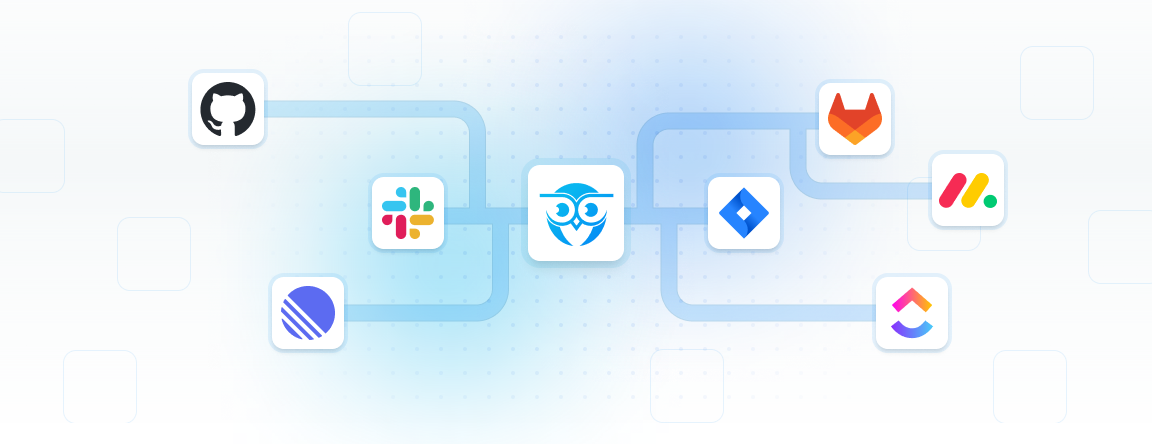
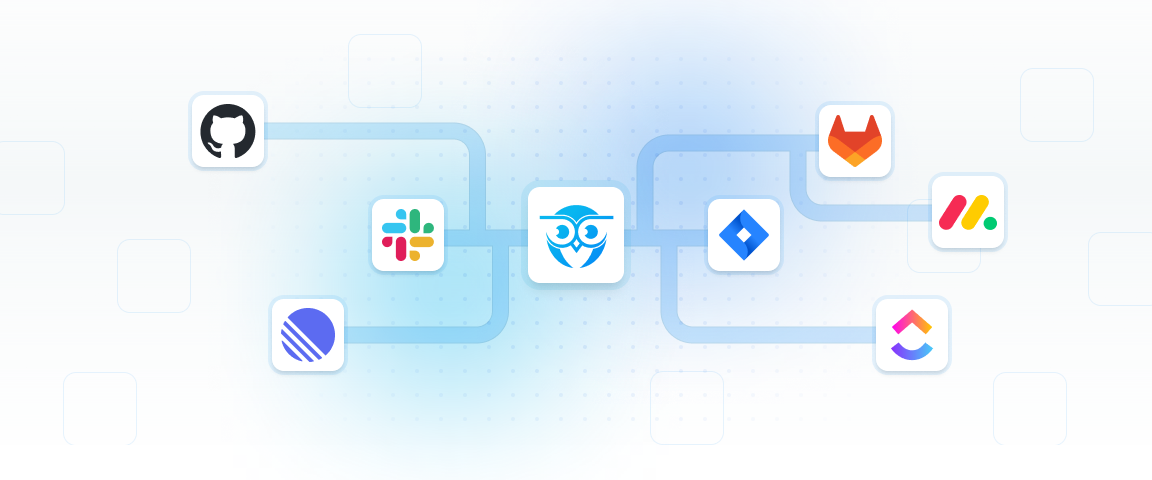
svg img

diff --git a/src/components/Features.jsx b/src/components/Features.jsx
@@ -1,10 +1,10 @@
 import React from 'react';
-import Annotation from '../assets/Annotation.png'
-import ActionableFeedback from '../assets/Actionable-Feedback.png'
-import OnPremise from '../assets/On-Premise.png'
-import Session from '../assets/Session-Replays.png'
-import Integrations from '../assets/Integrations.png'
-import Web from '../assets/Web-Sdk.png'
+import Annotation from '../assets/Annotation.svg'
+import ActionableFeedback from '../assets/Actionable-Feedback.svg'
+import OnPremise from '../assets/On-Premise.svg'
+import Session from '../assets/Session-Replays.svg'
+import Integrations from '../assets/Integrations.svg'
+import Web from '../assets/Web-Sdk.svg'
 const data = [
   {
     img: Annotation,
